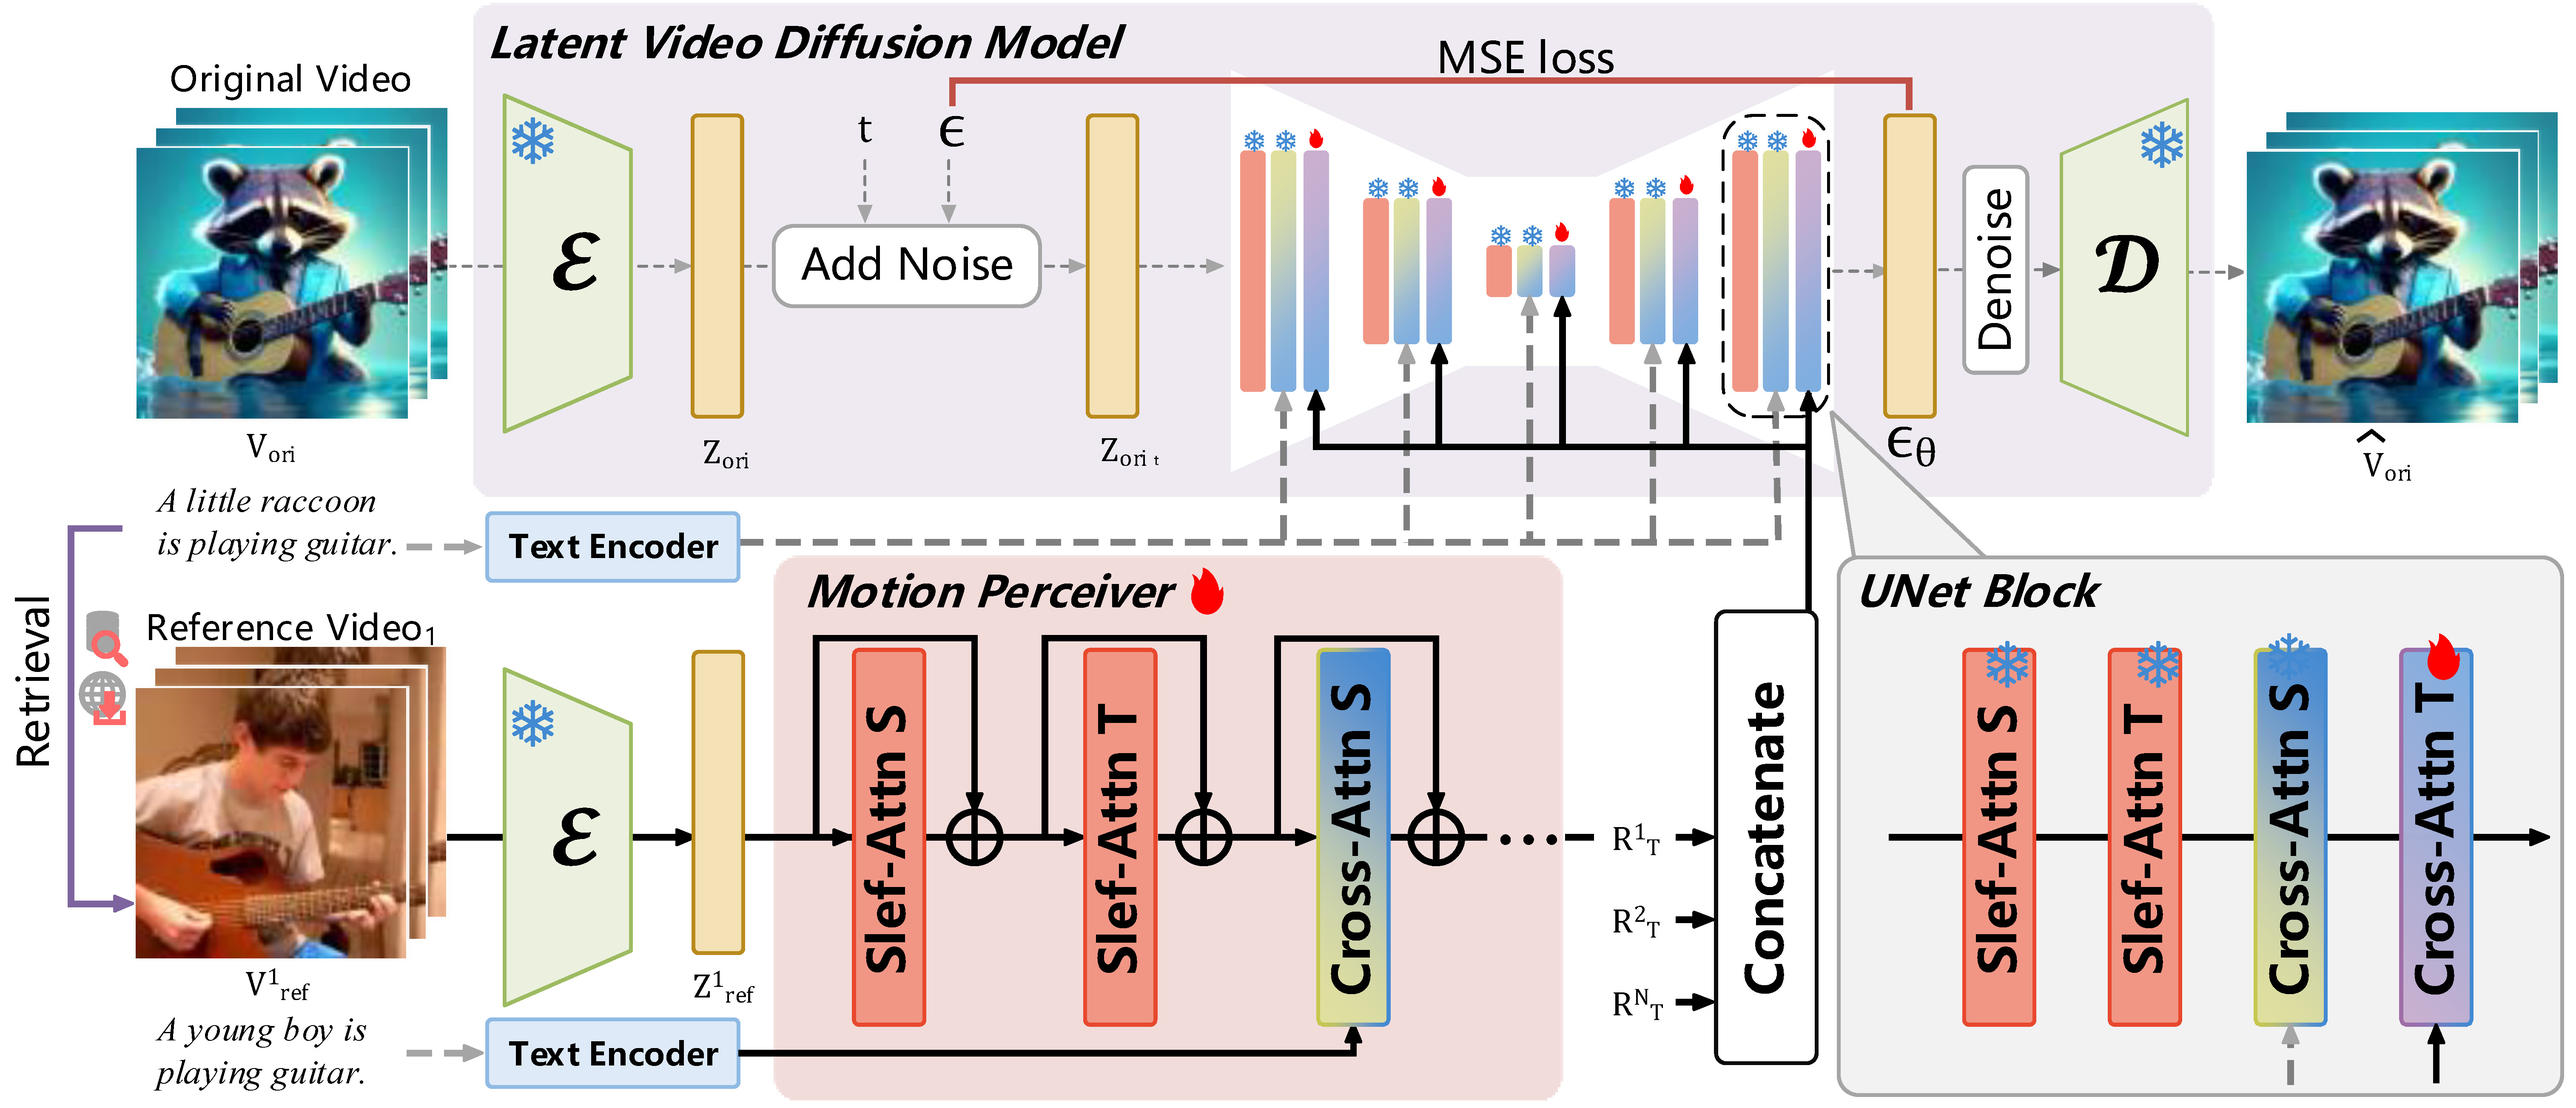
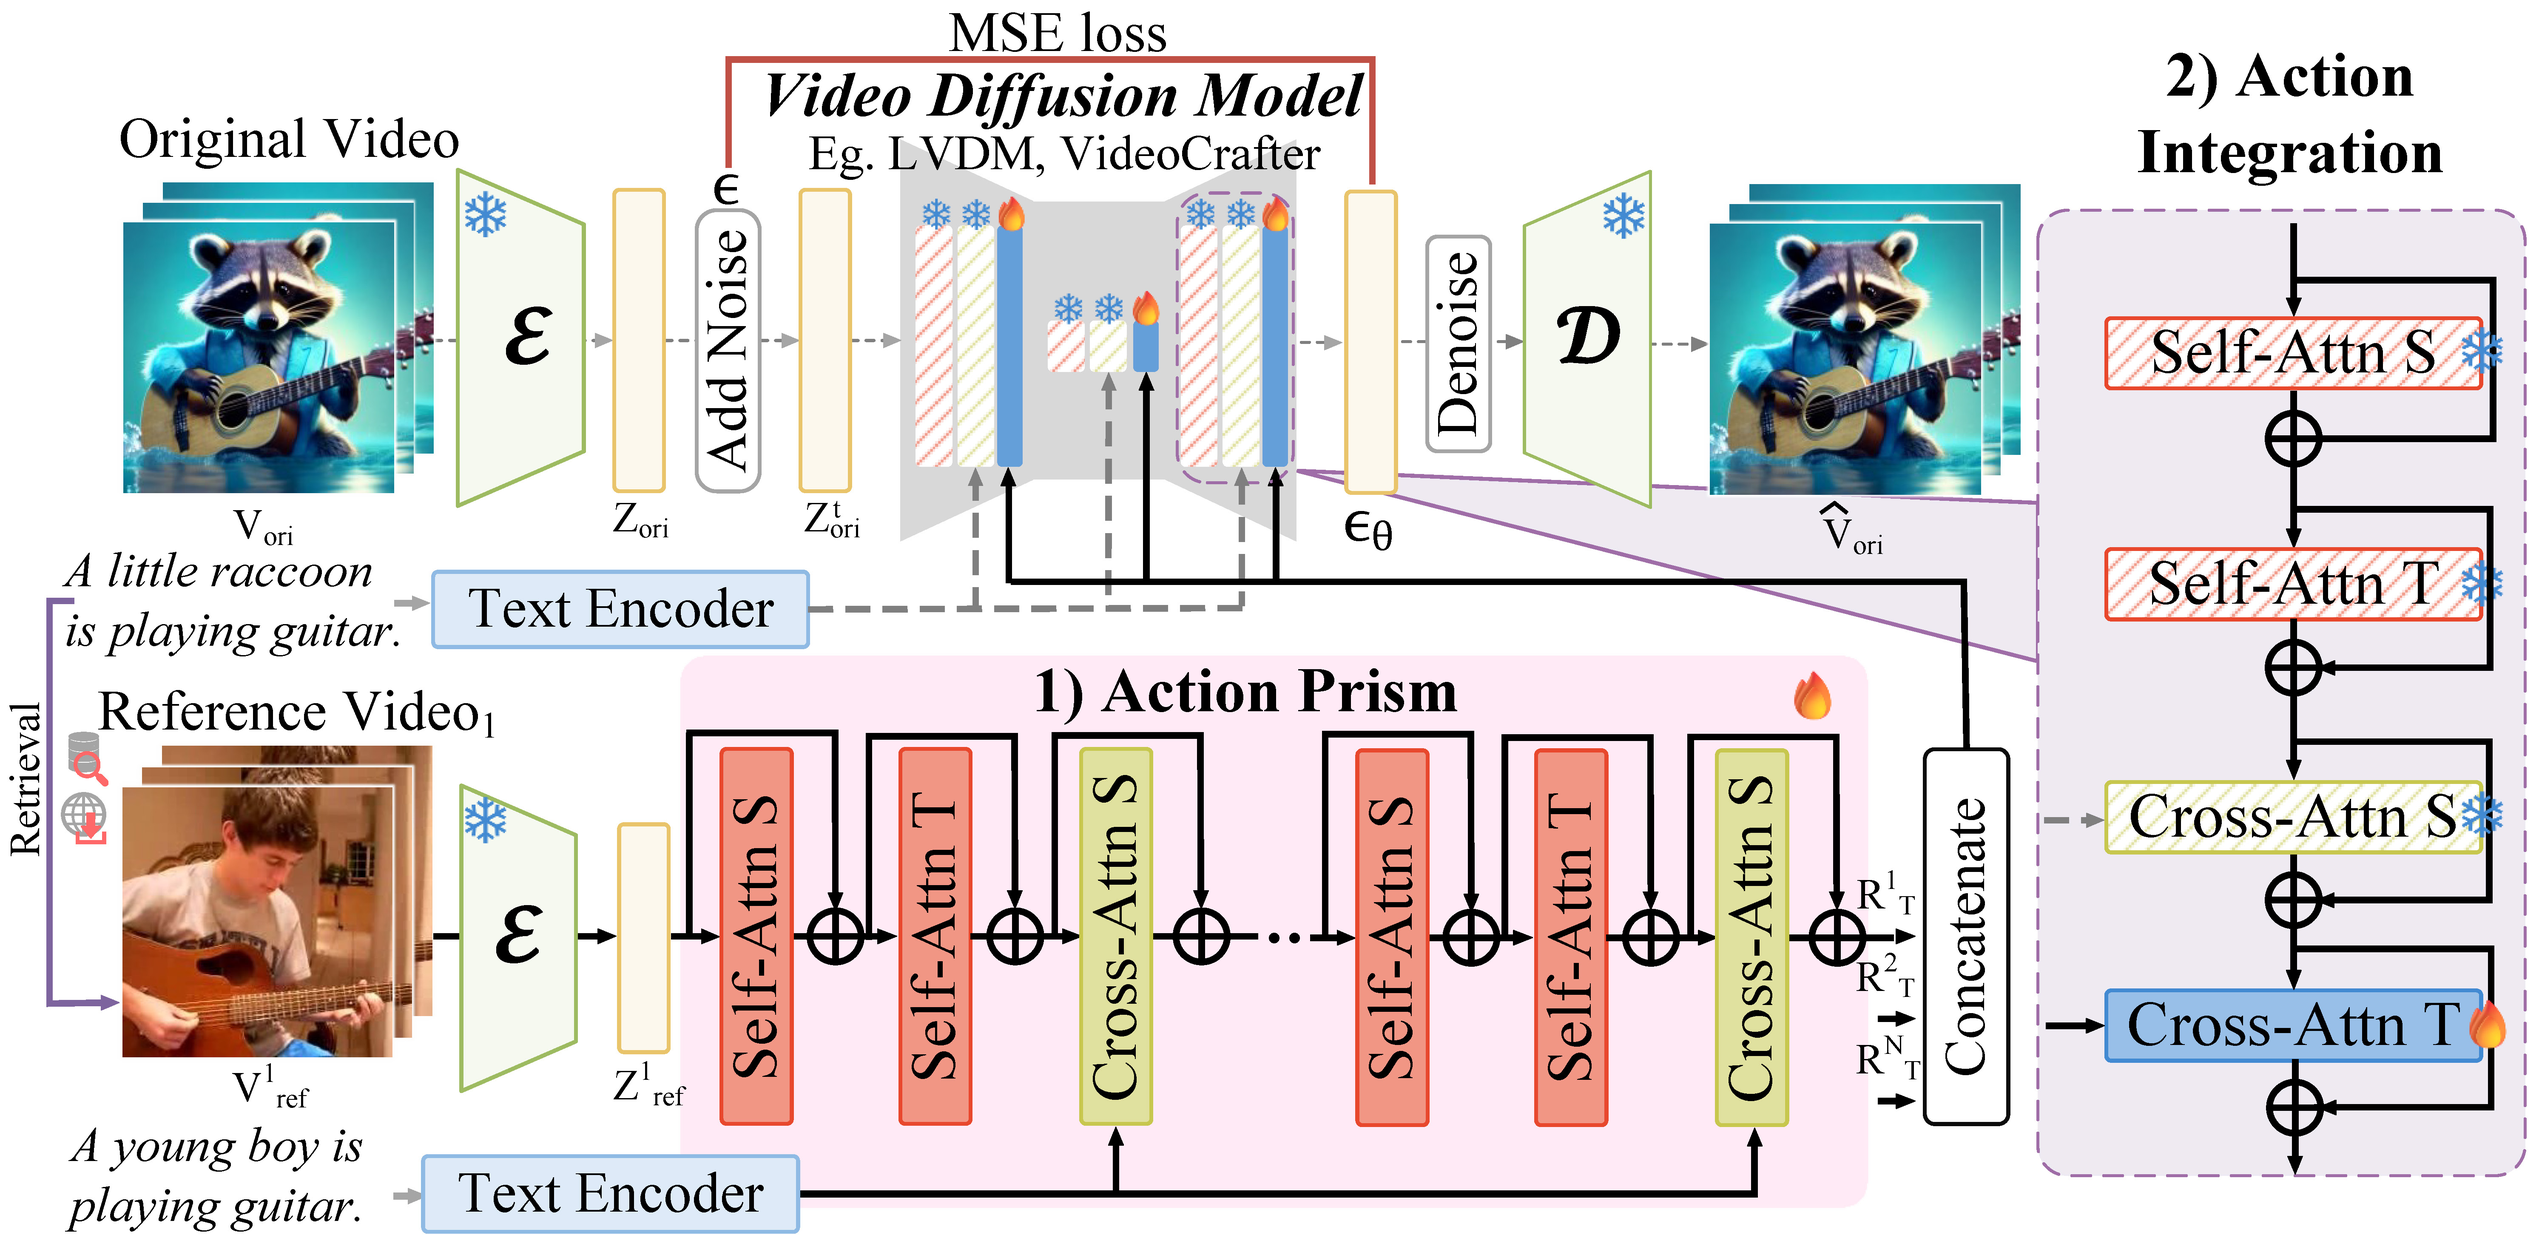
some change

diff --git a/lvdm/models/modules/openaimodel3d.py b/lvdm/models/modules/openaimodel3d.py
@@ -339,7 +339,7 @@ class Perceiver_layer(nn.Module):
         video = rearrange(video, '(b l) t c -> b t l c', b=b)
         return video
 
-class Motion_Perceiver(nn.Module):
+class Action_Prism(nn.Module):
     def __init__(self, 
                  input_query_dim=4, 
                  latent_query_dim=640, 
@@ -489,7 +489,7 @@ class UNetModel(nn.Module):
         
         self.EchoReel = EchoReel
         if self.EchoReel:
-            self.Motion_Perceiver_process = Motion_Perceiver()
+            self.Action_Prism_process = Action_Prism()
             pass
         time_embed_dim = model_channels * 4
         self.time_embed_dim = time_embed_dim
@@ -756,7 +756,7 @@ class UNetModel(nn.Module):
             emb = emb + self.label_emb(y)
         if self.EchoReel == True:
             inject_video = rearrange(inject_video, 'b c t h w -> b t (h w) c')
-            Sout, Tout = self.Motion_Perceiver_process(torch.cat((context, inject_text), dim=1), inject_video)
+            Sout, Tout = self.Action_Prism_process(torch.cat((context, inject_text), dim=1), inject_video)
             kwargs['Sout'] = Sout
             kwargs['Tout'] = Tout
         # h = x.type(self.dtype)
